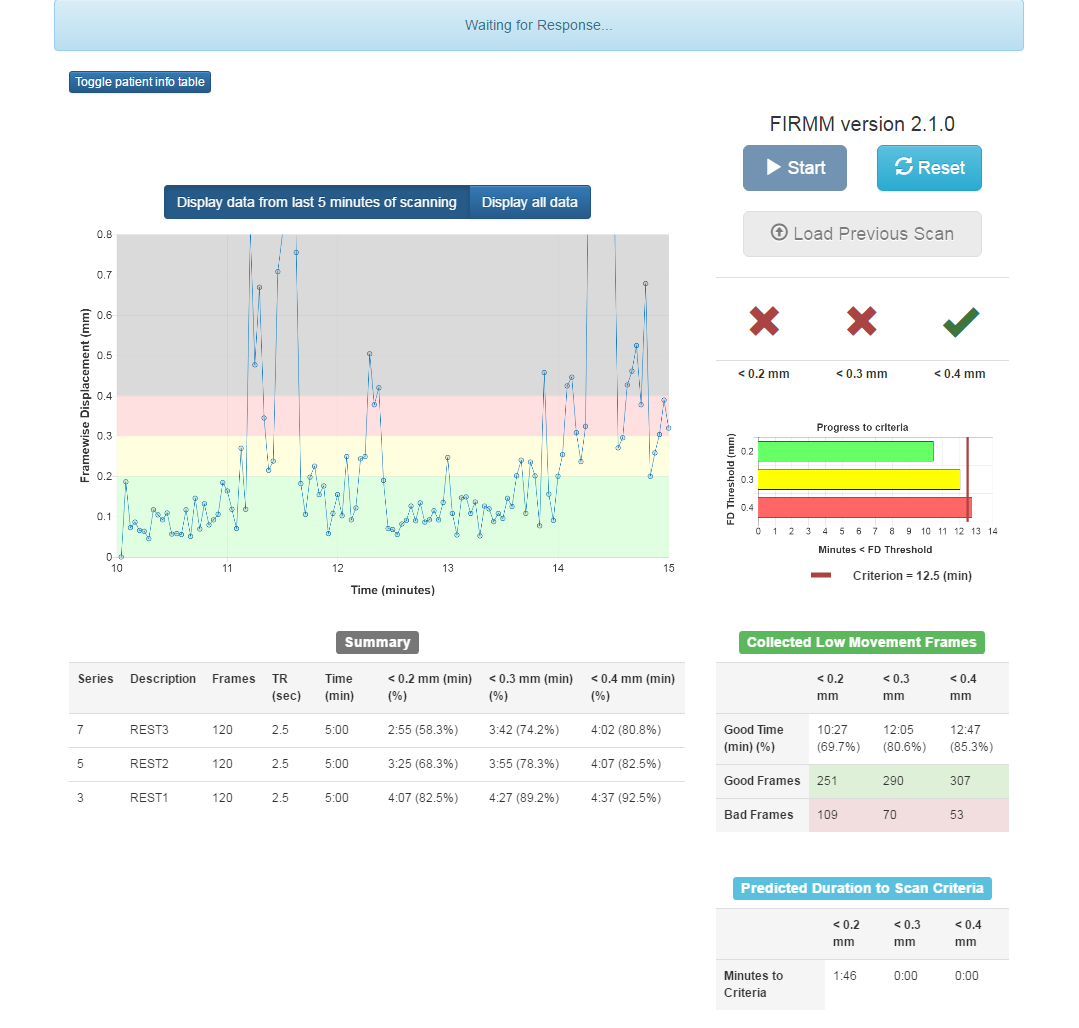
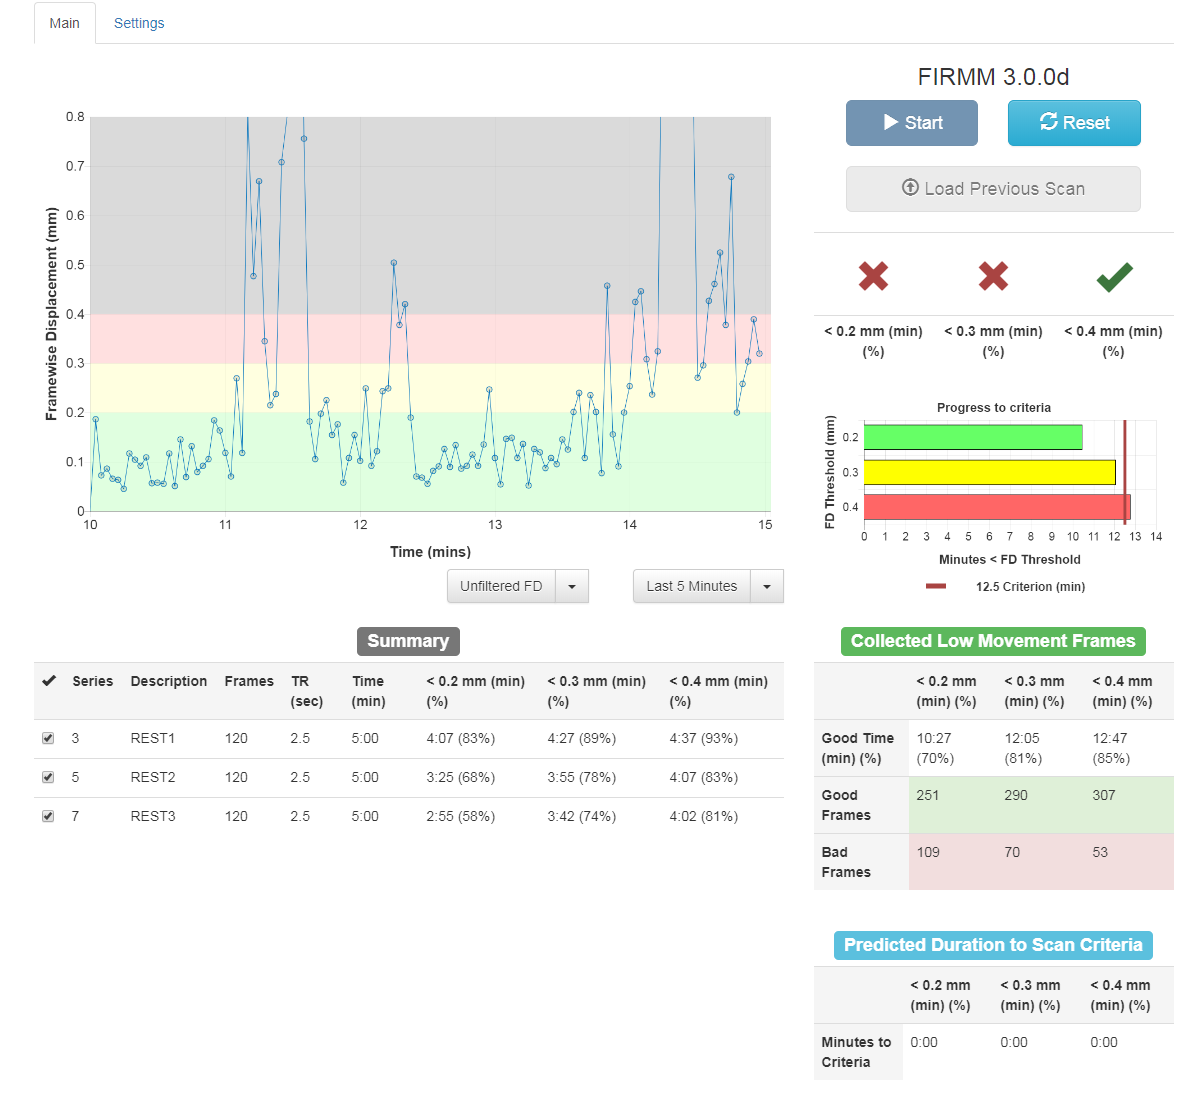
Update screenshots for v3 and add text about unchecking series

diff --git a/docs/FIRMM_USAGE.md b/docs/FIRMM_USAGE.md
@@ -93,6 +93,8 @@ By default, if there are more than five minutes' worth of data, only the last fi
 
 The summary table provides summary data on each series with information from the DICOM headers and information from FD calculations and thresholding.  These include: the Series Number, Series Description, frame (aka. DICOM) count, Repetition Time (TR), the total time acquired per series, then three entries for the "good" time based on `TR*(frame count < low, middle, and high FD thresholds)`. If the default settings file is used, these thresholds will be 0.2mm, 0.3mm, and 0.4mm, respectively. To customize them, generate a new settings file. Each new series is added to the top of the table and displayed in real time.
 
+The checkboxes to the left of each series in the summary table allow the user to de-select series that should not be included in plots and predictions.
+
 <div class="page-break"></div>
 
 **Predicted Duration to Scan Criteria table**
